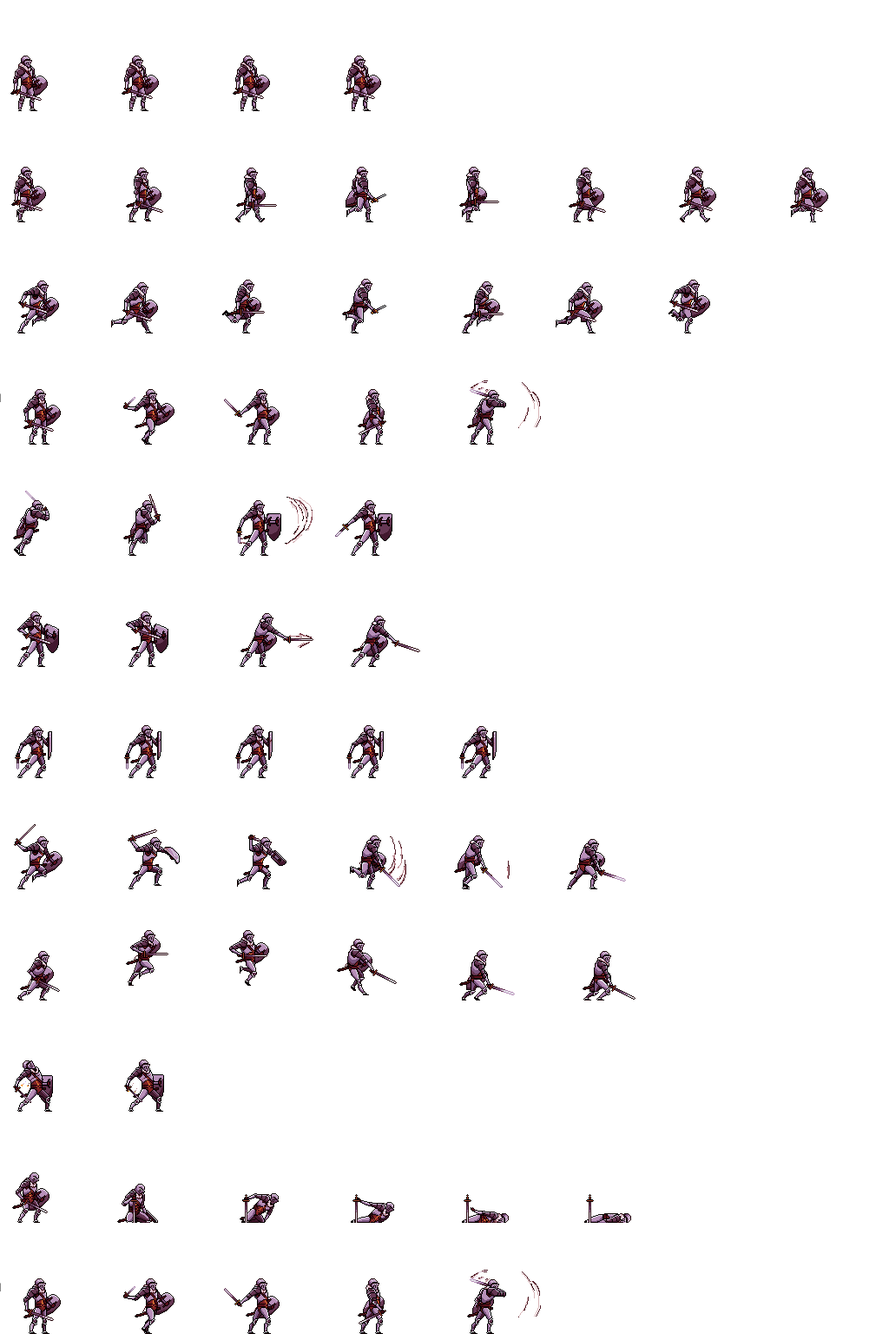
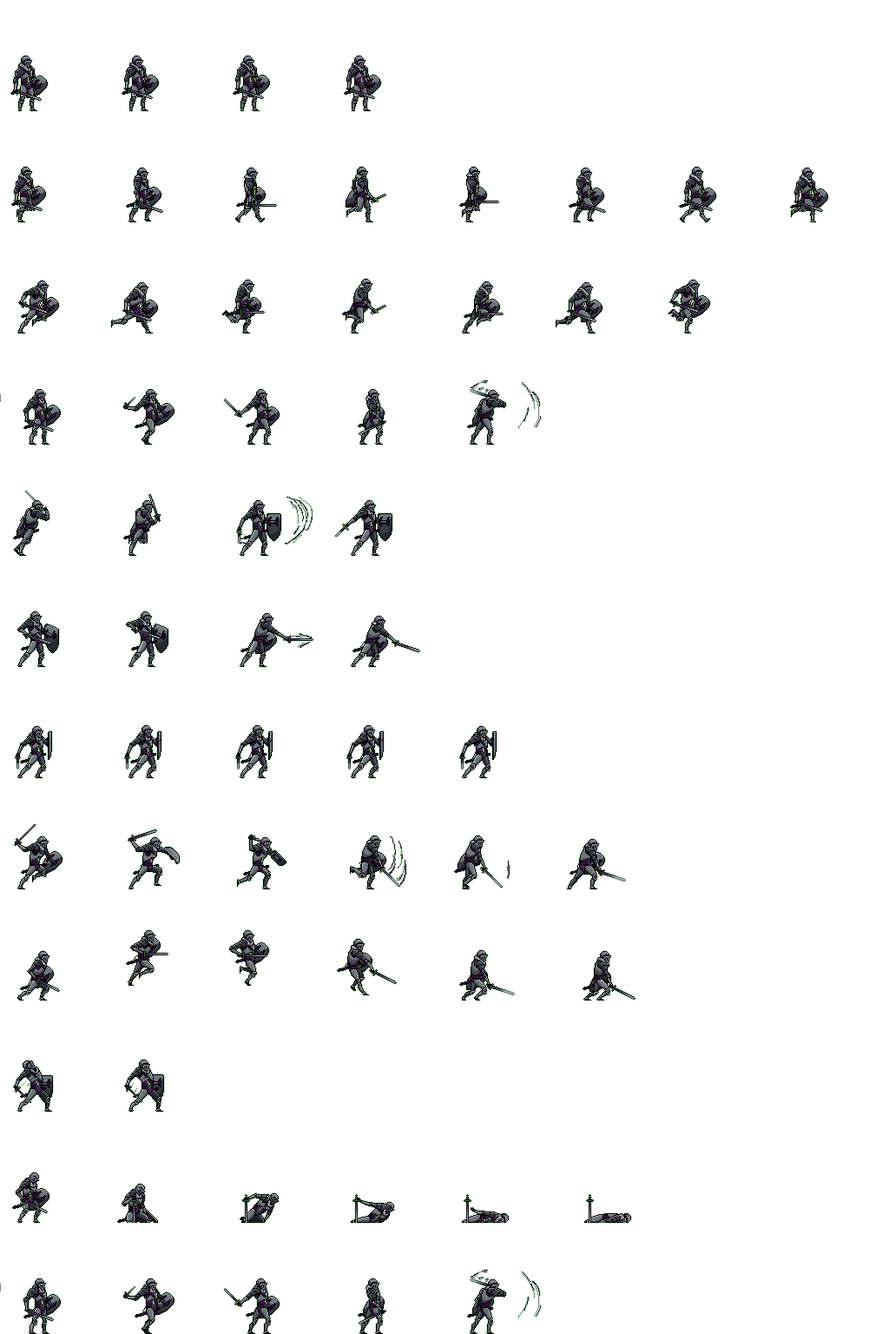
0.12.510: unholy Crimson_Knight, Undead (Knight, Cultist) with rise, Defender Guard
Claude-Session: https://claude.ai/code/session_01MWfQtZY2YmsPgpaMMoKqpP

diff --git a/crawl.js b/crawl.js
@@ -141,8 +141,8 @@ const STYLE={
 const ORDER={melee:0,blade:.5,duo:1,gunner:1.5,ranged:2,caster:3};
 // walking pace per hero (px/s): heavy/armored/stone slow, light and quick ones faster
 /* 0.12.424 (Kyle) TFT-style ROLES. Each hero has one or two. The more of a role on the team (1/2/3), the bigger the bonus, and it goes to the WHOLE team. */
-const ROLE_OF={seekyle:['medic','handler'],teeg:['ranger','support'],archer:['ranger','exalted'],edward:['builder','defender'],knight:['defender','bruiser'],robot:['defender','machine'],cheez:['bruiser','exalted'],soldier:['ranger','defender'],chibi:['bruiser','exalted'],jp:['ranger','support'],druid:['support','medic'],flannel:['ranger','handler'],alchemist:['medic','ranger'],cultist:['support','handler'],eng:['builder','machine'],shoshi:['support','builder'],lumberjack:['bruiser','exalted'],bub:['undead','bruiser'],broodbot:['machine','handler']};   /* 0.12.465: never more than 2 tags a hero */
-const ROLES={defender:{name:'Defender',icon:'🛡',c:'#5aa8ff',tiers:[{regen:.7,armor:5},{regen:.85,armor:7.5},{regen:1,armor:10}],txt:t=>`+${t.regen} HP a second and +${t.armor} armor`},
+const ROLE_OF={seekyle:['medic','handler'],teeg:['ranger','support'],archer:['ranger','exalted'],edward:['builder','defender'],knight:['defender','bruiser','undead'],robot:['defender','machine'],cheez:['bruiser','exalted'],soldier:['ranger','defender'],chibi:['bruiser','exalted'],jp:['ranger','support'],druid:['support','medic'],flannel:['ranger','handler'],alchemist:['medic','ranger'],cultist:['support','handler','undead'],eng:['builder','machine'],shoshi:['support','builder'],lumberjack:['bruiser','exalted'],bub:['undead','bruiser'],broodbot:['machine','handler']};   /* 0.12.465: never more than 2 tags a hero */
+const ROLES={defender:{name:'Defender',icon:'🛡',c:'#5aa8ff',tiers:[{armor:5,guard:10},{armor:7.5,guard:15},{armor:10,guard:20}],txt:t=>`+${t.armor} armor, and Guard: when a hero drops under 35% HP they get a shield worth ${t.guard}% of their max HP for 4s (once every 20s each)`},   /* 0.12.510 (Kyle): regen swapped for Guard (everyone has base regen now) */
   bruiser:{name:'Bruiser',icon:'👊',c:'#ff5a4a',tiers:[{atk:3,ls:5},{atk:4,ls:7.5},{atk:5,ls:10}],txt:t=>`+${t.atk} damage a hit and ${t.ls}% lifesteal`},
   ranger:{name:'Ranger',icon:'🏹',c:'#7ad86a',tiers:[{range:10,acc:4},{range:15,acc:6},{range:20,acc:8}],txt:t=>`+${t.range}% attack range and +${t.acc} accuracy`},
   support:{name:'Support',icon:'💠',c:'#c07aff',tiers:[{cdr:10},{cdr:12.5},{cdr:15}],txt:t=>`${t.cdr}% faster cooldowns`},
@@ -154,7 +154,7 @@ const ROLES={defender:{name:'Defender',icon:'🛡',c:'#5aa8ff',tiers:[{regen:
   /* 0.12.488 (Kyle) Undead (Bub): potions, herbs and healing magic do nothing for an undead hero (like a Machine); the team gets zombies that half think they're one of them */
   /* 0.12.509 (Kyle) Exalted: no team bonus. An Exalted hero fights better as a lone wolf (no ally within 300px), and every Exalted on the team makes each one stronger */
   exalted:{name:'Exalted',icon:'👑',c:'#ffd86a',self:1,tiers:[{dmg:10,spd:8,dr:5},{dmg:15,spd:12,dr:8},{dmg:20,spd:16,dr:10}],txt:t=>`no team bonus: each Exalted hero with no ally within 350px (a lone wolf) gets +${t.dmg}% damage, +${t.spd}% attack speed and takes ${t.dr}% less damage`},
-  undead:{name:'Undead',icon:'💀',c:'#c8a8ff',tiers:[{miss:8},{miss:12},{miss:16}],txt:t=>`zombies half think the team is one of them: ${t.miss}% of zombie bites miss. Undead heroes get nothing from potions, herbs or healing magic`}};
+  undead:{name:'Undead',icon:'💀',c:'#c8a8ff',tiers:[{miss:8,rise:0},{miss:12,rise:8},{miss:16,rise:5}],txt:t=>`zombies half think the team is one of them: ${t.miss}% of zombie bites miss`+(t.rise?`. Undead heroes who go down get back up on their own after ${t.rise}s (once a stage)`:'')}   /* 0.12.510: Knight and Cultist join Bub. Only Bub himself can't use potions or healing (that's his body, not the role) */};
 const EX_R=350/3;   /* 0.12.509 (Kyle): lone wolf = no ally within 350px */
 function teamRoles(keys){const n={};for(const k of keys)for(const r of ROLE_OF[k]||[])n[r]=(n[r]||0)+1;const out={};for(const [r,c] of Object.entries(n))out[r]={n:c,t:ROLES[r].tiers[Math.min(3,c)-1]};return out;}
 const BUILD_BASE=7;   /* 0.12.424 (Kyle): every worker adds 7% a second to a foundation, plus the team's Builder bonus */
@@ -702,7 +702,7 @@ const ABIL_DESC={
 const BEHAVIOR={
   broodbot:'⚙ MACHINE: healing, potions and healing magic do nothing for it; it gets repaired instead (its own scrap, and the Builders\' Tinker). A cheerful yellow robot on tank treads with a bay full of spider-bots on its back. Rolls along behind the front line, builds spider-bots and sends them skittering into the zombies, snares crowds in wire and blows its whole brood up when the swarm gets thick.',
   bub:'💀 UNDEAD: potions, herbs and healing magic do nothing for him; he heals by eating. A Day of the Dead zombie in a torn blue shirt, face painted like a sugar skull, a marigold tucked behind his ear. Shambles into the front line swinging his rotten arms, plugs anything farther off with his pistol, bites chunks out of zombies and, when it goes quiet, kneels down to eat the ones he dropped.',
-  knight:'A knight in crimson plate who took an oath and means to keep it. Stands at the front with sword and shield, plants the shield when the crowd gets thick and drags them all onto himself, charges through a line of them, and comes down out of the sky on anything that grabs a friend.',
+  knight:'An unholy knight in blackened plate, bound by a blood oath that outlived him: the green fire in his chest is all that keeps him standing. Stands at the front with sword and shield, plants the shield when the crowd gets thick and drags them all onto himself, charges through a line of them, and comes down out of the sky on anything that grabs a friend.',
   
   
   cheez:'A drunken techno-samurai with a beam katana: the casino tech who fixes the broken machines, an anime and game-con nerd, a witty teaser who never means it, and the guy who never misses game night (and usually hosts it). Slices whole lines of zombies, gets loose on neon sake, reboots hurt friends, and plants the DICE BOYS banner.',
@@ -1430,7 +1430,7 @@ function dogPrefs(run){if(!run)return [{},{}];let d=run.dogPick;if(!Array.isArra
 const DOG_LARGE=[{skin:'dog_stbern',name:'Saint_Bernard',about:'A big gentle rescue dog with a barrel of healing drink under its chin. Stays close to the team, and every 6s it shares a drink that heals a hurt ally 8% of their life.',mood:{aggr:-2,listen:3,pack:-3,nerve:-2,self:-2},bite:-.1,hits:2,medic:1},   // a big gentle rescue dog: stays close, carries a healing drink
   {skin:'dog_mastiff',name:'English_Mastiff',about:"A giant, drooly wall of a dog. Plants itself in front of the team, takes a beating and lets out a booming bark that makes nearby zombies go for it instead of your heroes.",mood:{aggr:-1,pace:-3,nerve:-3,listen:2,cover:2},bite:-.15,dodge:-.05,hitsX:2,taunt:1,sz:1.3},   /* 0.12.446 (Kyle): the tank: 9 hits, a taunting bark */
   {skin:'dog_corso',name:'Cane_Corso',about:'An Italian guardian mastiff with a spiked collar. Fearless, bites hard, lands big crits and shrugs off a quarter of the hits it takes.',mood:{aggr:3,nerve:-3,listen:1},bite:.15,hits:1,crit:.25,critMul:1.5,nudge:.25}];   /* 0.12.435 (Kyle): 25% crit at 1.5x, 25% to shrug off a hit */                                     // a guardian mastiff that hits hard and lands crits                     // fearless, hits hard, a bit slower
-const CALL_COLOR={broodbot:'#ffc83a',bub:'#ff8ad8',seekyle:'#a46bff',teeg:'#e8b04a',cheez:'#3af0ff',edward:'#f0b429',knight:'#c0303a',soldier:'#9fb06a',shoshi:'#b38cff',eng:'#ffcc33',jp:'#ff9a3c',dog:'#d8a060',cultist:'#b05cff',robot:'#4de0d0',flannel:'#f2c94c',alchemist:'#7dd87a',flannel_pal:'#ff6b6b',chibi:'#5ab4ff',archer:'#ff9f43',druid:'#7ee081',lumberjack:'#c79bff'};
+const CALL_COLOR={broodbot:'#ffc83a',bub:'#ff8ad8',seekyle:'#a46bff',teeg:'#e8b04a',cheez:'#3af0ff',edward:'#f0b429',knight:'#6ee07a',soldier:'#9fb06a',shoshi:'#b38cff',eng:'#ffcc33',jp:'#ff9a3c',dog:'#d8a060',cultist:'#b05cff',robot:'#4de0d0',flannel:'#f2c94c',alchemist:'#7dd87a',flannel_pal:'#ff6b6b',chibi:'#5ab4ff',archer:'#ff9f43',druid:'#7ee081',lumberjack:'#c79bff'};
 const NICK={broodbot:'Brood',bub:'Bub',seekyle:'K-Swiss',teeg:'Tee',cheez:'Cheez',edward:'Edward',knight:'Knight',soldier:'Soldier',shoshi:'Shoshi',eng:'Engineer',dog:'Dog',cultist:'Cultist',robot:'Hound',flannel:'Flannel',alchemist:'Alchemist',flannel_pal:'Companion',chibi:'Tide',archer:'Yumi',druid:'Druid',lumberjack:'Jack'};
 const FOE_NICK={zombie:['the zombie','that zombie','the shambler','the rotter','the dead one'],werewolf:['the wolf','the werewolf','the dog','the furball','the beast']};
 const LANE_NAME=['top','upper','middle','lower','bottom'];
@@ -1796,7 +1796,7 @@ class Game{
           if(m.kbRes)h.kbRes+=m.kbRes/100;if(m.enMax)h.enMaxB+=m.enMax;if(m.enRegen)h.enRegenB+=m.enRegen;if(m.move)h.mvMul+=m.move/100;
           if(m.meleeDmg)h.meleeDmg+=m.meleeDmg/100;if(m.rangedDmg)h.rangedDmg+=m.rangedDmg/100;if(m.lifesteal)h.lifesteal+=m.lifesteal/100;if(m.critMul)h.critMul+=m.critMul/100;if(m.xp)h.xpBonus+=m.xp/100;   /* 0.12.287 these talent stats now apply */
           if(m.meleeSpd)h.meleeSpd+=m.meleeSpd/100;if(m.rangedSpd)h.rangedSpd+=m.rangedSpd/100;if(m.kb)h.kbAdd+=m.kb;if(m.cdr)h.cdr=Math.min(.5,(h.cdr||0)+m.cdr/100);}   /* 0.12.106 talents */
-          if(!h.pet&&this.run&&!this.demo){const R=teamRoles(this.run.team);this.roles=R;if(R.defender){h.armorPts+=R.defender.t.armor;h.roleRegen=R.defender.t.regen;}if(R.bruiser){h.roleDmg=R.bruiser.t.atk;h.lifesteal+=R.bruiser.t.ls/100;}if(R.ranger){h.roleRange=1+R.ranger.t.range/100;h.acc+=R.ranger.t.acc;}if(R.support)h.cdr=Math.min(.5,(h.cdr||0)+R.support.t.cdr/100);}   /* 0.12.424 team roles */
+          if(!h.pet&&this.run&&!this.demo){const R=teamRoles(this.run.team);this.roles=R;if(R.defender){h.armorPts+=R.defender.t.armor;}if(R.bruiser){h.roleDmg=R.bruiser.t.atk;h.lifesteal+=R.bruiser.t.ls/100;}if(R.ranger){h.roleRange=1+R.ranger.t.range/100;h.acc+=R.ranger.t.acc;}if(R.support)h.cdr=Math.min(.5,(h.cdr||0)+R.support.t.cdr/100);}   /* 0.12.424 team roles */
         if(P.hp)h.max*=1+.04*P.hp;if(P.acc)h.acc+=2*P.acc;if(P.crit)h.crit+=.01*P.crit;if(P.luck)h.luck+=3*P.luck;if(P.armor)h.armorPts+=P.armor;
         if(h.focus){h.acc+=12;h.rangedSpd*=1.12;h.crit+=.05;h.meleeDmg*=.75;}if(h.crash){h.acc-=6;h.enRegenB=(h.enRegenB||5)-1;}   /* 0.12.467 Focus Pills / the crash after */
         if(h.courage){h.courageAcc=this.run&&upgT(this.run,'still')>=4?15:20;h.meleeDmg*=1.25;h.acc-=h.courageAcc;h.meleeSpd*=1.15;h.kbRes=Math.min(.95,(h.kbRes||0)+.25);}   /* 0.12.456 (Kyle) Liquid Courage is a drunken brawler's brew: +25% melee damage, +15% melee speed, 20% less damage taken, hard to knock over, -20 accuracy (Still IV: -15) */   /* 0.12.252 (Kyle): +20% dmg, +10% atk speed, -20% accuracy (and 10% less damage taken) */{const sv=this.run&&this.run.heroes&&this.run.heroes[h.key];const hu=(sv&&sv.hunger)||0,th=(sv&&sv.thirst)||0;h.hunger=hu;h.thirst=th;if(hu)h.acc-=HUNGER.acc[hu];h.injOn=[];if(sv&&sv.inj&&!sv.numb)for(const x of sv.inj)if(INJURY[x.id]&&!h.injOn.includes(x.id)){injApply(h,x.id,1);h.injOn.push(x.id);}h.numb=!!(sv&&sv.numb&&sv.inj&&sv.inj.length);}   /* 0.12.296 injuries */   /* 0.12.72 hunger: shaky aim */   /* Liquid Courage */const gt=upgT(this.run,'gen');if(gt)h.enRegenB+=[0,.25,.5,.75,1][gt];const bt=upgT(this.run,'bench');if(bt){h.flatRanged=(h.flatRanged||0)+bt;h.flatMelee=(h.flatMelee||0)+bt;}const sh=upgT(this.run,'shrine');if(sh)h.luck+=[5,10][sh-1];}
@@ -3115,6 +3115,10 @@ this.chumStep(dt);for(const R of this.horseFx||[])R.t+=dt;if(this.horseFx)this.h
         h.exAl=alone?(h.exAl||0)+dt:0;h.exNo=alone?0:(h.exNo||0)+dt;
         if(!h.exOn&&h.exAl>=.5){h.exOn=1;tbuff(h,{sp:XT.spd/100},1e9);h.exB=h.tb[h.tb.length-1];if(this.rng()<.3)this.text(hx,(h.gy||this.G)-58,'LONE WOLF','#ffd86a');}
         else if(h.exOn&&h.exNo>=1){h.exOn=0;if(h.exB)h.exB.T=0;h.exB=null;}}}
+    /* 0.12.510 (Kyle) Defender Guard: a hero dropping under 35% HP gets a shield (once every 20s each) */
+    if(this.roles&&this.roles.defender&&!this.demo){const GD=this.roles.defender.t.guard/100;for(const h of this.heroes){if(!h.alive||h.pet||h.dog||h.hp/h.max>=.35||(h.guardCd||0)>this.t)continue;h.guardCd=this.t+20;h.shield=Math.max(h.shield||0,h.max*GD);h.shieldT=Math.max(h.shieldT||0,4);this.text(this.heroX(h),(h.gy||this.G)-58,'GUARD','#5aa8ff');}}
+    /* 0.12.510 (Kyle) Undead 2+: an Undead hero who goes down rises on his own (once a stage) */
+    if(this.roles&&this.roles.undead&&this.roles.undead.t.rise&&!this.demo)for(const h of this.heroes)if(!h.alive&&h.downed&&!h.rose&&(ROLE_OF[h.key]||[]).includes('undead')&&this.t-(h.downT||0)>=this.roles.undead.t.rise){h.rose=1;this.revive(h,false);this.text(this.heroX(h),(h.gy||this.G)-58,'RISES AGAIN','#c8a8ff');}
     this.robStep(dt);for(const e of this.enemies)if(e.armorCut>0){e.armorCut-=dt;if(e.armorCut<=0&&e.armor0!=null){e.armorPts=e.armor0;e.armor0=null;}}   /* 0.12.234 Cheez: banner, host buff, override */this.stepBarrels(dt,this.scroll||0);this.stepRadio(dt,this.scroll||0);if(this.nailFields&&this.nailFields.length){for(const F of this.nailFields){F.t-=dt;F.x0-=(this.scroll||0)*dt;F.x1-=(this.scroll||0)*dt;for(const e of this.enemies){if(e.dead||e.fly||e.boss)continue;if(e.x>=F.x0&&e.x<=F.x1&&Math.abs((e.gy!=null?e.gy:this.G)-F.gy)<6){e.slow=Math.max(e.slow||0,F.slow);e.slowT=Math.max(e.slowT||0,.25);}}}this.nailFields=this.nailFields.filter(F=>F.t>0);}   /* 0.12.211 Edward's Nail_Strip nails on the ground */this.stepGlNades(dt,scroll);this.stepClones(dt,scroll);this.stepWatchdog(dt);this.stepSandbags(dt,scroll);this.stepClimb(dt,scroll);this.stepHerbs(dt,scroll);this.stepDisarm(dt);this.stepPortals(dt,this.scroll||0);this.stepPortalWork(dt);
     for(const h of this.alive()){this.obClamp(h,true);this.mineClamp(h);}for(const e of this.enemies)if(!e.dead)this.obClamp(e,false);
     for(const x of this.fx){x.t+=dt;if(scroll&&GROUND_FX.has(x.k))x.x-=scroll*dt;}this.fx=this.fx.filter(x=>x.t<(x.life||.6));
@@ -6076,12 +6080,12 @@ if(typeof module!=='undefined'&&module.exports){module.exports=API;}
 if(typeof document==='undefined')return;
 
 // ======================================================================= UI (browser only)
-const IMG=new Image();IMG.src='crawl.png?v=1795674824';const BGI=new Image();BGI.src='crawl_bg.png?v=1795674824';
-const SP=ATLAS.sprites,BGA=ATLAS.bg,RES=ATLAS.res||1;const UNITS=ATLAS.units||{};const UIMG=new Image();UIMG.src='crawl_units.png?v=1795674824';const RAIN={f:{fw:5,fh:18,n:1,ax:2,ay:17,x:0,y:0,img:'rain'},s:{fw:5,fh:11,n:1,ax:2,ay:10,x:8,y:7,img:'rain'}};
+const IMG=new Image();IMG.src='crawl.png?v=1795675312';const BGI=new Image();BGI.src='crawl_bg.png?v=1795675312';
+const SP=ATLAS.sprites,BGA=ATLAS.bg,RES=ATLAS.res||1;const UNITS=ATLAS.units||{};const UIMG=new Image();UIMG.src='crawl_units.png?v=1795675312';const RAIN={f:{fw:5,fh:18,n:1,ax:2,ay:17,x:0,y:0,img:'rain'},s:{fw:5,fh:11,n:1,ax:2,ay:10,x:8,y:7,img:'rain'}};
 const CAMPF={fw:34,fh:40,ax:17,ay:37,y:0,img:'camp'};
-const XIMG={cityob:new Image(),cars:new Image(),cultist:new Image(),tentacle:new Image(),robot:new Image(),obst:new Image(),lumberjack:new Image(),camp:new Image(),druid:new Image(),tornado:new Image(),vine:new Image(),thorn:new Image(),rain:new Image(),flannel:new Image(),alchemist:new Image(),boom:new Image(),pal:new Image(),chibi:new Image(),wave:new Image(),archer:new Image()};XIMG.archer.src='crawl_archer.png?v=1795674824';XIMG.wave.src='crawl_wave.png?v=1795674824';XIMG.chibi.src='crawl_chibi.png?v=1795674824';XIMG.flannel.src='crawl_flannel.png?v=1795674824';XIMG.alchemist.src='crawl_alch.png?v=1795674824';XIMG.jp=new Image();XIMG.jp.src='crawl_jp.png?v=1795674824';XIMG.eng=new Image();XIMG.eng.src='crawl_eng.png?v=1795674824';XIMG.shoshi=new Image();XIMG.shoshi.src='crawl_shoshi.png?v=1795674824';XIMG.teeg=new Image();XIMG.teeg.src='crawl_teeg.png?v=1795674824';XIMG.seekyle=new Image();XIMG.seekyle.src='crawl_seekyle.png?v=1795674824';XIMG.kids=new Image();XIMG.kids.src='crawl_kids.png?v=1795674824';XIMG.gear=new Image();XIMG.gear.src='crawl_gear.png?v=1795674824';XIMG.portals=new Image();XIMG.portals.src='crawl_portals.png?v=1795674824';XIMG.skel=new Image();XIMG.skel.src='crawl_skel.png?v=1795674824';XIMG.knight=new Image();XIMG.knight.src='crawl_knight.png?v=1795674824';XIMG.strike=new Image();XIMG.strike.src='crawl_strike.png?v=1795674824';XIMG.soldier=new Image();XIMG.soldier.src='crawl_soldier.png?v=1795674824';XIMG.bghood=new Image();XIMG.bghood.src='crawl_bg_hood.png?v=1795674824';XIMG.bloater=new Image();XIMG.hazmat=new Image();XIMG.hazmat.src='crawl_hazmat.png?v=1795674824';XIMG.bloater.src='crawl_bloater.png?v=1795674824';XIMG.screamer=new Image();XIMG.screamer.src='crawl_screamer.png?v=1795674824';XIMG.flame=new Image();XIMG.flame.src='crawl_flame.png?v=1795674824';XIMG.rain.src='crawl_rain.png?v=1795674824';XIMG.druid.src='crawl_druid.png?v=1795674824';XIMG.camp.src='crawl_campfire.png?v=1795674824';XIMG.lumberjack.src='crawl_lumberjack.png?v=1795674824';XIMG.tornado.src='crawl_fx_tornado.png?v=1795674824';XIMG.broodbot=new Image();XIMG.broodbot.src='crawl_broodbot.png?v=1795674824';XIMG.bub=new Image();XIMG.bub.src='crawl_bub.png?v=1795674824';XIMG.vine.src='crawl_fx_vine.png?v=1795674824';XIMG.thorn.src='crawl_fx_thorn.png?v=1795674824';
+const XIMG={cityob:new Image(),cars:new Image(),cultist:new Image(),tentacle:new Image(),robot:new Image(),obst:new Image(),lumberjack:new Image(),camp:new Image(),druid:new Image(),tornado:new Image(),vine:new Image(),thorn:new Image(),rain:new Image(),flannel:new Image(),alchemist:new Image(),boom:new Image(),pal:new Image(),chibi:new Image(),wave:new Image(),archer:new Image()};XIMG.archer.src='crawl_archer.png?v=1795675312';XIMG.wave.src='crawl_wave.png?v=1795675312';XIMG.chibi.src='crawl_chibi.png?v=1795675312';XIMG.flannel.src='crawl_flannel.png?v=1795675312';XIMG.alchemist.src='crawl_alch.png?v=1795675312';XIMG.jp=new Image();XIMG.jp.src='crawl_jp.png?v=1795675312';XIMG.eng=new Image();XIMG.eng.src='crawl_eng.png?v=1795675312';XIMG.shoshi=new Image();XIMG.shoshi.src='crawl_shoshi.png?v=1795675312';XIMG.teeg=new Image();XIMG.teeg.src='crawl_teeg.png?v=1795675312';XIMG.seekyle=new Image();XIMG.seekyle.src='crawl_seekyle.png?v=1795675312';XIMG.kids=new Image();XIMG.kids.src='crawl_kids.png?v=1795675312';XIMG.gear=new Image();XIMG.gear.src='crawl_gear.png?v=1795675312';XIMG.portals=new Image();XIMG.portals.src='crawl_portals.png?v=1795675312';XIMG.skel=new Image();XIMG.skel.src='crawl_skel.png?v=1795675312';XIMG.knight=new Image();XIMG.knight.src='crawl_knight.png?v=1795675312';XIMG.strike=new Image();XIMG.strike.src='crawl_strike.png?v=1795675312';XIMG.soldier=new Image();XIMG.soldier.src='crawl_soldier.png?v=1795675312';XIMG.bghood=new Image();XIMG.bghood.src='crawl_bg_hood.png?v=1795675312';XIMG.bloater=new Image();XIMG.hazmat=new Image();XIMG.hazmat.src='crawl_hazmat.png?v=1795675312';XIMG.bloater.src='crawl_bloater.png?v=1795675312';XIMG.screamer=new Image();XIMG.screamer.src='crawl_screamer.png?v=1795675312';XIMG.flame=new Image();XIMG.flame.src='crawl_flame.png?v=1795675312';XIMG.rain.src='crawl_rain.png?v=1795675312';XIMG.druid.src='crawl_druid.png?v=1795675312';XIMG.camp.src='crawl_campfire.png?v=1795675312';XIMG.lumberjack.src='crawl_lumberjack.png?v=1795675312';XIMG.tornado.src='crawl_fx_tornado.png?v=1795675312';XIMG.broodbot=new Image();XIMG.broodbot.src='crawl_broodbot.png?v=1795675312';XIMG.bub=new Image();XIMG.bub.src='crawl_bub.png?v=1795675312';XIMG.vine.src='crawl_fx_vine.png?v=1795675312';XIMG.thorn.src='crawl_fx_thorn.png?v=1795675312';
 const TORN={fw:96,fh:96,n:16,ax:48,ay:90,x:0,y:0,img:'tornado',art:1},VINE={fw:260,fh:116,n:7,ax:130,ay:110,x:0,y:0,img:'vine',art:1};
-const THORNS=[[0,35,53],[37,67,79],[106,36,82],[144,87,74]].map(([x,w,h])=>({fw:w,fh:h,n:1,ax:w/2,ay:81,x,y:82-h,img:'thorn',art:1}));XIMG.pal.src='crawl_pal.png?v=1795674824';XIMG.axe=new Image();XIMG.axe.src='crawl_axe.png?v=1795674824';XIMG.fxp=new Image();XIMG.fxp.src='crawl_fxpack.png?v=1795674824';XIMG.nest=new Image();XIMG.nest.src='crawl_mgnest.png?v=1795674824';XIMG.dog=new Image();XIMG.dog.src='crawl_dog.png?v=1795674824';XIMG.bat=new Image();XIMG.bat.src='crawl_bat.png?v=1795674824';XIMG.edward=new Image();XIMG.edward.src='crawl_edward.png?v=1795674824';XIMG.cheez=new Image();XIMG.cheez.src='crawl_cheez.png?v=1795674824';XIMG.chumboom=new Image();XIMG.chumboom.src='crawl_chumboom.png?v=1795674824';XIMG.cheezhorse=new Image();XIMG.cheezhorse.src='crawl_cheezhorse.png?v=1795674824';XIMG.obst.src='crawl_obst.png?v=1795674824';XIMG.cityob.src='crawl_cityob.png?v=1795674824';XIMG.cars.src='crawl_cars.png?v=1795674824';XIMG.robot.src='crawl_robot.png?v=1795674824';XIMG.cultist.src='crawl_cultist.png?v=1795674824';XIMG.tentacle.src='crawl_tentacle.png?v=1795674824';XIMG.boom.src='crawl_boom.png?v=1795674824';
+const THORNS=[[0,35,53],[37,67,79],[106,36,82],[144,87,74]].map(([x,w,h])=>({fw:w,fh:h,n:1,ax:w/2,ay:81,x,y:82-h,img:'thorn',art:1}));XIMG.pal.src='crawl_pal.png?v=1795675312';XIMG.axe=new Image();XIMG.axe.src='crawl_axe.png?v=1795675312';XIMG.fxp=new Image();XIMG.fxp.src='crawl_fxpack.png?v=1795675312';XIMG.nest=new Image();XIMG.nest.src='crawl_mgnest.png?v=1795675312';XIMG.dog=new Image();XIMG.dog.src='crawl_dog.png?v=1795675312';XIMG.bat=new Image();XIMG.bat.src='crawl_bat.png?v=1795675312';XIMG.edward=new Image();XIMG.edward.src='crawl_edward.png?v=1795675312';XIMG.cheez=new Image();XIMG.cheez.src='crawl_cheez.png?v=1795675312';XIMG.chumboom=new Image();XIMG.chumboom.src='crawl_chumboom.png?v=1795675312';XIMG.cheezhorse=new Image();XIMG.cheezhorse.src='crawl_cheezhorse.png?v=1795675312';XIMG.obst.src='crawl_obst.png?v=1795675312';XIMG.cityob.src='crawl_cityob.png?v=1795675312';XIMG.cars.src='crawl_cars.png?v=1795675312';XIMG.robot.src='crawl_robot.png?v=1795675312';XIMG.cultist.src='crawl_cultist.png?v=1795675312';XIMG.tentacle.src='crawl_tentacle.png?v=1795675312';XIMG.boom.src='crawl_boom.png?v=1795675312';
 const WAVE={fw:110,fh:68,n:1,ax:48,ay:63,x:0,y:0,img:'wave'};   // Wave Dash energy wave (3 flickering frames)
 const BOOM={fw:128,fh:131,n:15,ax:64,ay:128,x:0,y:0,img:'boom',art:1};   // explosion frames from Kyle's sheet (15 frames, half size)
 const ART_SCALE=21/152;   // full-detail character art drawn at the in-game size Kyle liked (his 152px-tall art = 21 world px)
@@ -6116,7 +6120,7 @@ function musicStop(){try{if(BGM)BGM.pause();}catch(e){}}
 /* 0.12.310 recorded clips (Tee_Grizzle): decoded once, played through the same AudioContext as the synth sounds */
 const SAMP={teeg1:{src:'crawl_teeg1',off:.34},teeg2:{src:'crawl_teeg2',off:0},teeg3:{src:'crawl_teeg3',off:0},jp1:{src:'crawl_jp1',off:0},kidhowl:{src:'crawl_kidhowl',off:0},leiftag:{src:'crawl_leiftag',off:0}};   /* 0.12.394: the boys' howl, Leif's "tag!" */   /* 0.12.380: Tee's Pistol_Play line, JP's No_Scope line */
 function sampLoad(k){const S=SAMP[k];if(!S||S.buf||S.loading||!AC)return;S.loading=1;const ext=(new Audio()).canPlayType('audio/ogg; codecs="vorbis"')?'.ogg':'.mp3';
-  fetch(S.src+ext+'?v=1795674824').then(r=>r.arrayBuffer()).then(b=>AC.decodeAudioData(b,d=>{S.buf=d;},()=>{})).catch(()=>{});}
+  fetch(S.src+ext+'?v=1795675312').then(r=>r.arrayBuffer()).then(b=>AC.decodeAudioData(b,d=>{S.buf=d;},()=>{})).catch(()=>{});}
 function sampPlay(k,off,vol,soft){const S=SAMP[k];if(!S)return;if(!S.buf){sampLoad(k);return;}const src=AC.createBufferSource(),g=AC.createGain();src.buffer=S.buf;g.gain.value=vol==null?.55:vol;
   if(soft){const lp=AC.createBiquadFilter();lp.type='lowpass';lp.frequency.value=soft;lp.Q.value=.5;src.playbackRate.value=.94+Math.random()*.1;src.connect(lp);lp.connect(g);}else src.connect(g);g.connect(AC.destination);src.start(0,off==null?S.off:off);}   /* 0.12.329 (Kyle: a bit less annoying): Tee's clips play softer, muffled (low-pass) and with a little pitch wobble */
 function sfx(k,o){if(muted)return;try{AC=AC||new (window.AudioContext||window.webkitAudioContext)();const t=AC.currentTime;
@@ -7392,7 +7396,7 @@ let root,cv,ctx,panel,hud,info,bossEl,banner;
 function build(){
   if(root)return;if(!document.getElementById('cc-style')){const st=document.createElement('style');st.id='cc-style';st.textContent=CSS;document.head.appendChild(st);}
   root=document.createElement('div');root.id='cc';root.hidden=true;root.setAttribute('role','dialog');root.setAttribute('aria-label','Crypt Crawl');
-  root.innerHTML=`<div class="cc-top"><span class="t">⚰ CRYPT CRAWL <span style="color:#6a5a7a;font-size:8px">v0.12.509</span></span>
+  root.innerHTML=`<div class="cc-top"><span class="t">⚰ CRYPT CRAWL <span style="color:#6a5a7a;font-size:8px">v0.12.510</span></span>
     <button class="cc-ib" data-a="restart" title="Restart this stage from its save point" hidden>↺</button><button class="cc-ib" data-a="pause" title="Pause">⏸</button><button class="cc-ib" data-a="speed" title="Game speed">1×</button>
     <button class="cc-ib" data-a="brain" title="Show what every unit is thinking">🧠</button><button class="cc-ib" data-a="mute" title="Sound effects">${muted?'🔇':'🔊'}</button><button class="cc-ib" data-a="music" title="Music on/off">${musicMuted?'🎵̸':'🎵'}</button><button class="cc-ib" data-a="track" title="Next track (now: ${TRACKS[trackI].name})">⏭</button><input class="cc-vol" data-vol type="range" min="0" max="100" value="${Math.round(musicVol*100)}" title="Music volume"><button class="cc-ib" data-a="zoom" title="Zoom (Auto: closer camera on phones)">🔍</button><button class="cc-ib" data-a="side" title="Turn sideways (phones held upright)">⟳</button><button class="cc-ib" data-a="fs" title="Full screen">⛶</button><button class="cc-ib" data-a="close" title="Close">✕</button></div>
     <div class="cc-main"><div class="cc-info"></div><div class="cc-cvw"><div class="cc-uf"></div><canvas id="cc-cv" width="${384*RES*GQ}" height="${216*RES*GQ}"></canvas></div><div class="cc-boss"></div><div class="cc-banner"></div><div class="cc-hud"></div><div class="cc-panel"></div></div>`;
@@ -7705,7 +7709,7 @@ function showTree(k){const s=SLOT(),L=s&&s.heroes[k];if(!L)return;L.tk=k;treeIni
       return `<div class="${cls}" data-n="${n.id}" title="${esc(n.name)}" style="grid-row:${n.row};grid-column:${'abcd'.indexOf(n.col)+1}">${n.icon}<span class="trk">${rk}/${n.max}</span></div>`;};
     const col=(B,bi)=>{const bp=treeBranchPts(k,L,bi);const nxt=TREE_REQ.find(q=>q>bp);
       return `<div class="tbr" data-bi="${bi}" style="flex:1 1 0;min-width:0;max-width:340px;position:relative;border:2px solid #3a2e4a;border-radius:12px;overflow:hidden;box-shadow:0 0 18px #000c;
-          background:linear-gradient(180deg,#0006,#000a 70%),url(crawl_talbg.png?v=1795674824) ${-(B.bg||0)*100}% 0/900% 100%;image-rendering:pixelated">
+          background:linear-gradient(180deg,#0006,#000a 70%),url(crawl_talbg.png?v=1795675312) ${-(B.bg||0)*100}% 0/900% 100%;image-rendering:pixelated">
         <svg class="tlines" style="position:absolute;inset:0;width:100%;height:100%;pointer-events:none;z-index:0"></svg>
         <div style="position:relative;z-index:1;text-align:center;font-weight:800;color:#ffe9a8;letter-spacing:.5px;padding-top:6px;text-shadow:0 1px 3px #000;font-size:${sm?11:14}px;white-space:nowrap;overflow:hidden;text-overflow:ellipsis">${B.icon} ${esc(B.name)}</div>
         <div style="position:relative;z-index:1;font-size:9.5px;text-align:center;color:#c9b8e0;text-shadow:0 1px 2px #000">${bp} point${bp===1?'':'s'} · ${nxt!=null?`next tier at ${nxt}`:'every tier open'}</div>
@@ -7751,7 +7755,7 @@ function showTree(k){const s=SLOT(),L=s&&s.heroes[k];if(!L)return;L.tk=k;treeIni
 /* 0.12.338 (Kyle) GEAR screen: 3 slots per hero (Weapon / Armor / Trinket), a stash, free swaps. Tap anything to see it in full
    (no hover needed). Spare parts raise an item a quality tier (Rusted -> plain -> Fine -> Masterwork); scrapping gives parts back. */
 function gearIcon(it,sz){const D=gearDef(it);if(!D)return '';sz=sz||32;const k=sz/32;const R=GEAR_RAR[D.r];
-  return `<span style="display:inline-block;width:${sz}px;height:${sz}px;background:url(crawl_gear.png?v=1795674824) ${-(D.id%16)*sz}px ${-Math.floor(D.id/16)*sz}px/${512*k}px auto;image-rendering:pixelated;filter:drop-shadow(0 0 3px ${R.c}aa)${it.q===0?' sepia(.7) saturate(.6)':''}"></span>`;}
+  return `<span style="display:inline-block;width:${sz}px;height:${sz}px;background:url(crawl_gear.png?v=1795675312) ${-(D.id%16)*sz}px ${-Math.floor(D.id/16)*sz}px/${512*k}px auto;image-rendering:pixelated;filter:drop-shadow(0 0 3px ${R.c}aa)${it.q===0?' sepia(.7) saturate(.6)':''}"></span>`;}
 function showGear(k0){const s=SLOT();if(!s)return;const run=s.run;const team=(run&&run.team)||[k0];let k=k0;let sel=null,filt='all';gearSlot(s);
   let ov=document.getElementById('cc-gear');if(ov)ov.remove();ov=document.createElement('div');ov.id='cc-gear';
   ov.style.cssText='position:fixed;inset:0;z-index:9000;background:radial-gradient(ellipse at 50% 20%,rgba(40,30,70,.6),rgba(4,2,8,.96));overflow:hidden';   /* 0.12.501 (Kyle): full screen and scrollable, close in the top-right (works on the flipped screen too) */

diff --git a/notes.html b/notes.html
@@ -1,4 +1,11 @@
       <h2>What's new</h2>
+      <h3>0.12.510 — Unholy Crimson_Knight, Undead grows, role bonuses sharpened</h3>
+<ul><li><b>Crimson_Knight is now an unholy knight:</b> blackened iron plate, grave-violet cloth, sickly green hellfire burning in his chest where the red glow was, and a faint green aura. His name color on the unit frame is green to match.</li>
+<li><b>Undead has 3 members now:</b> Crimson_Knight (Defender + Bruiser + Undead) and Void_Cultist (Support + Handler + Undead) join Bub. Only Bub himself can't use potions or healing magic. That's his body, not the role.</li>
+<li><b>Undead bonus:</b> 1 Undead: 8% of zombie bites miss. 2 Undead: 12% miss, and an Undead hero who goes down gets back up on his own after 8s ("RISES AGAIN", once a stage). 3 Undead: 16% miss, and they rise after 5s.</li>
+<li><b>Defender reworked:</b> its HP-a-second bonus overlapped the new base regen, so it's gone. Defender now gives <b>Guard</b>: armor as before (+5 / +7.5 / +10), and when any hero drops under 35% HP they get a shield worth 10% / 15% / 20% of their max HP for 4s (once every 20s each).</li>
+<li>The other roles already each do their own thing (Bruiser melee damage and lifesteal, Ranger range and accuracy, Support cooldowns, Builder build speed, Medic healing, Machine machine and building armor, Handler pets, Exalted lone wolves), so they're unchanged.</li>
+<li>In sims, Defender and Undead teams survive a little longer than before (about 5–20s more in stages 3–6), so this isn't a big swing.</li></ul>
       <h3>0.12.509 — New role: Exalted 👑 (lone wolves)</h3>
 <ul><li><b>Exalted</b> is a new role tag. It doesn't boost the team. Instead, an Exalted hero with <b>no ally within 350px</b> fights better as a lone wolf: 1 Exalted on the team gives +10% damage, +8% attack speed and 5% less damage taken; 2 Exalted give +15% / +12% / 8%; 3 Exalted give +20% / +16% / 10%.</li>
 <li>It switches on after half a second alone and turns off 1 second after an ally walks up, so it doesn't flicker. A 👑 shows on the unit frame while it's active.</li>
